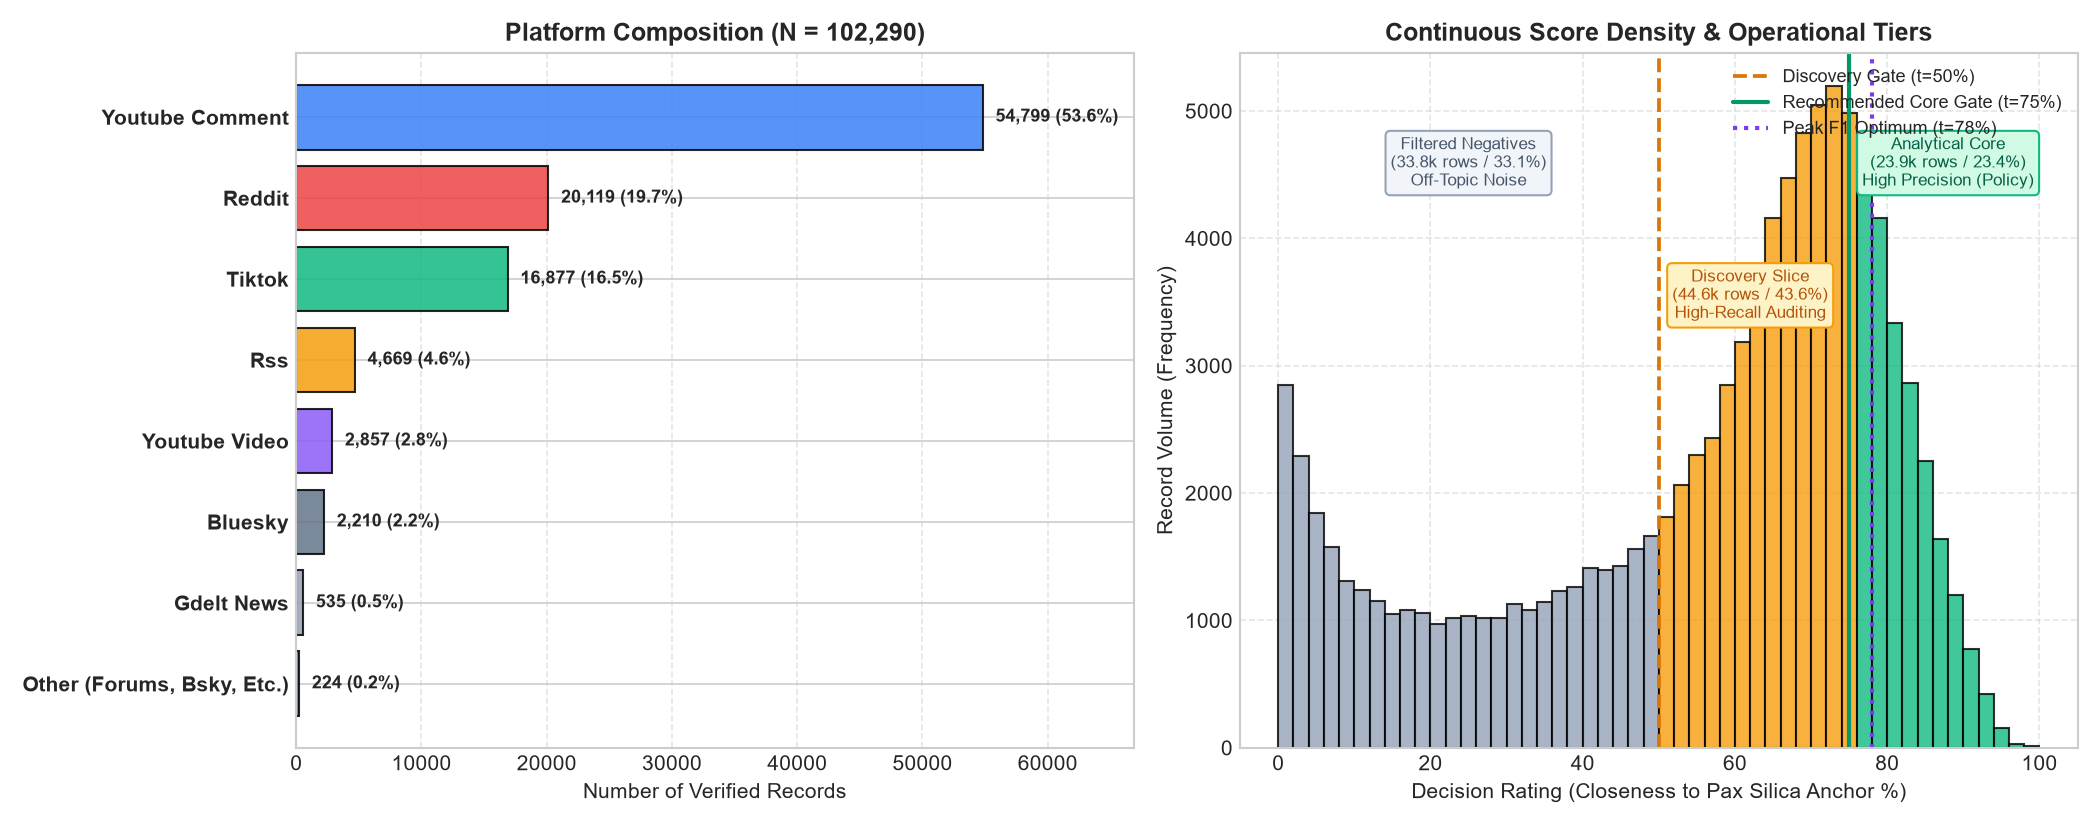
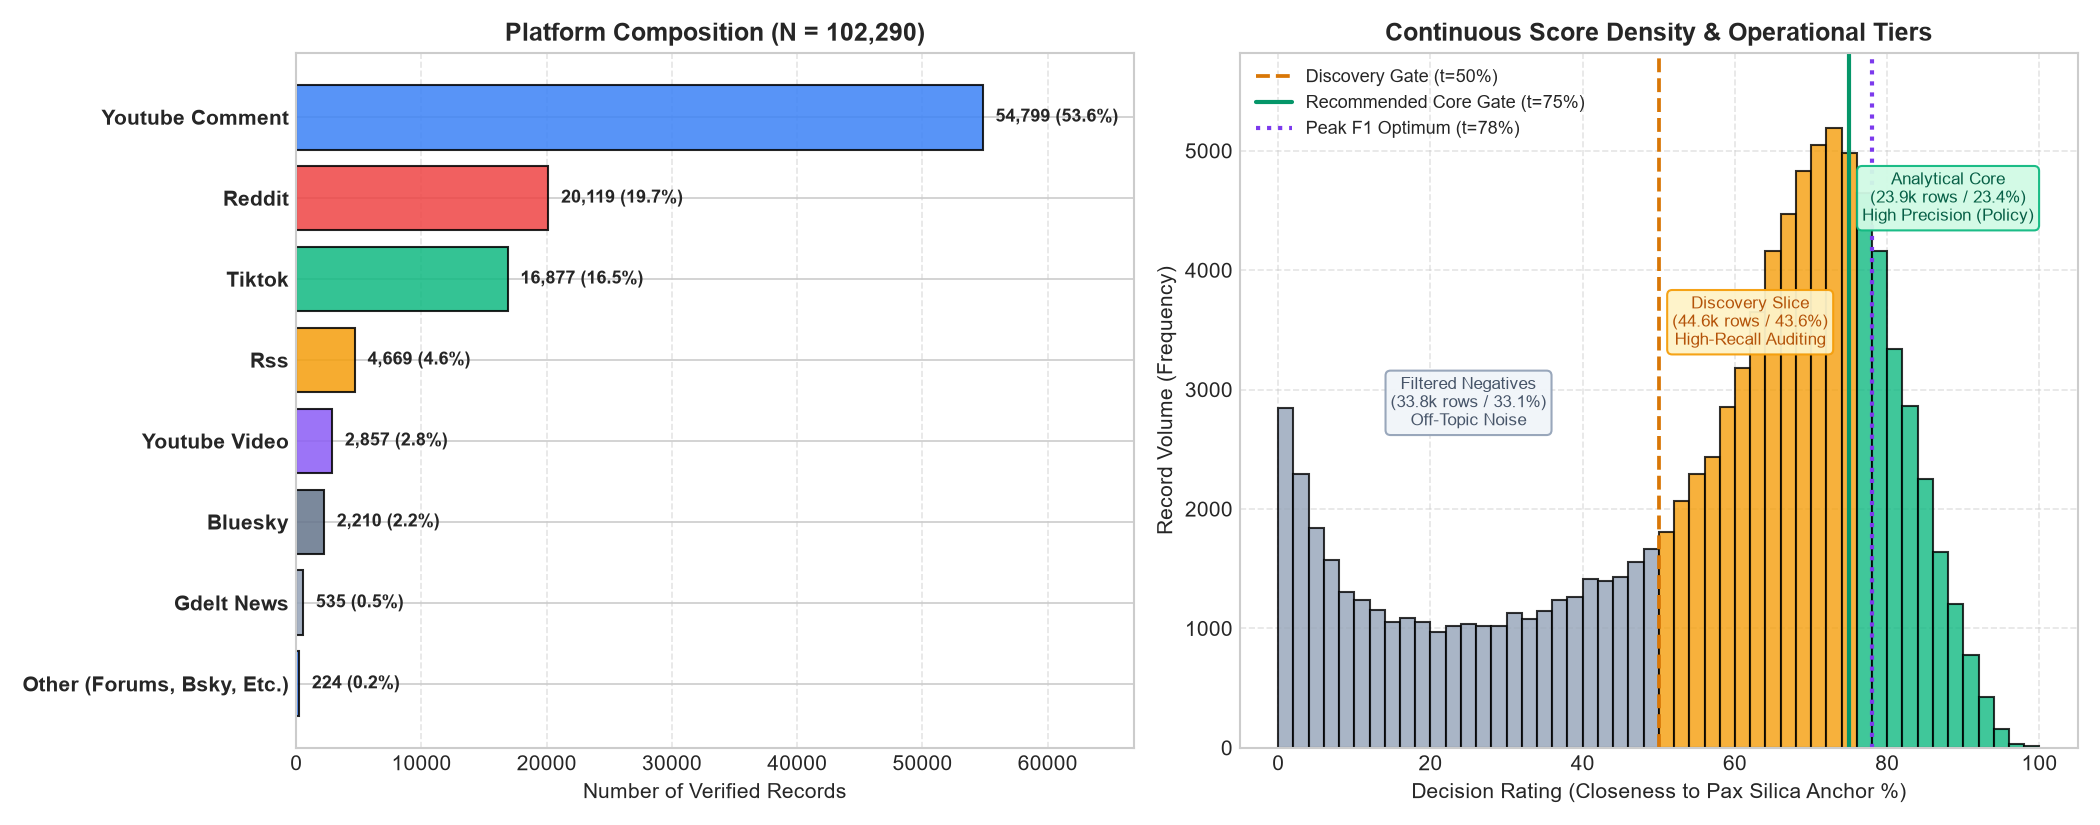
docs(eval): relocate legends and callout boxes to eliminate overlap across evaluation and corpus plots

diff --git a/scripts/plot_corpus_distribution.py b/scripts/plot_corpus_distribution.py
@@ -80,15 +80,16 @@ def plot_corpus():
     ax2.set_xlabel("Decision Rating (Closeness to Pax Silica Anchor %)", fontsize=10)
     ax2.set_ylabel("Record Volume (Frequency)", fontsize=10)
     ax2.grid(True, linestyle="--", alpha=0.5)
-    ax2.legend(loc="upper right", fontsize=8.5)
+    ax2.set_ylim(0, max(n) * 1.12)
+    ax2.legend(loc="upper left", fontsize=8.5, framealpha=0.95)
 
     # Annotations for tiers
-    ax2.text(25, max(n) * 0.85, "Filtered Negatives\n(33.8k rows / 33.1%)\nOff-Topic Noise",
-             ha="center", fontsize=8, color="#475569", bbox=dict(boxstyle="round,pad=0.3", fc="#f1f5f9", ec="#94a3b8"))
+    ax2.text(25, max(n) * 0.52, "Filtered Negatives\n(33.8k rows / 33.1%)\nOff-Topic Noise",
+             ha="center", fontsize=8, color="#475569", bbox=dict(boxstyle="round,pad=0.3", fc="#f1f5f9", ec="#94a3b8", alpha=0.95))
     ax2.text(62, max(n) * 0.65, "Discovery Slice\n(44.6k rows / 43.6%)\nHigh-Recall Auditing",
-             ha="center", fontsize=8, color="#b45309", bbox=dict(boxstyle="round,pad=0.3", fc="#fef3c7", ec="#f59e0b"))
+             ha="center", fontsize=8, color="#b45309", bbox=dict(boxstyle="round,pad=0.3", fc="#fef3c7", ec="#f59e0b", alpha=0.95))
     ax2.text(88, max(n) * 0.85, "Analytical Core\n(23.9k rows / 23.4%)\nHigh Precision (Policy)",
-             ha="center", fontsize=8, color="#065f46", bbox=dict(boxstyle="round,pad=0.3", fc="#d1fae5", ec="#10b981"))
+             ha="center", fontsize=8, color="#065f46", bbox=dict(boxstyle="round,pad=0.3", fc="#d1fae5", ec="#10b981", alpha=0.95))
 
     plt.tight_layout()
     OUT_PATH.parent.mkdir(parents=True, exist_ok=True)

diff --git a/scripts/plot_calibration_comparison.py b/scripts/plot_calibration_comparison.py
@@ -58,10 +58,10 @@ def plot_comparison():
     ax2.set_xlabel('Decision Threshold (%)', fontsize=11, fontweight='bold')
     ax2.set_ylabel('F1 Score (Harmonic Mean)', fontsize=11, fontweight='bold')
     ax2.grid(True, linestyle='--', alpha=0.6)
-    ax2.set_ylim(0.05, 0.62)
+    ax2.set_ylim(0.05, 0.64)
     ax2.legend(loc='lower left', fontsize=9.5, framealpha=0.95)
 
-    ax2.annotate('Peak F1 = 0.554\n(t=78%)', xy=(78, 0.554), xytext=(55, 0.44),
+    ax2.annotate('Peak F1 = 0.554\n(t=78%)', xy=(78, 0.554), xytext=(58, 0.57),
                  arrowprops=dict(facecolor='#7c3aed', shrink=0.08, width=1.5, headwidth=7),
                  fontsize=9, fontweight='bold', color='#5b21b6',
                  bbox=dict(boxstyle='round,pad=0.4', fc='#f3e8ff', ec='#7c3aed', alpha=0.95))
